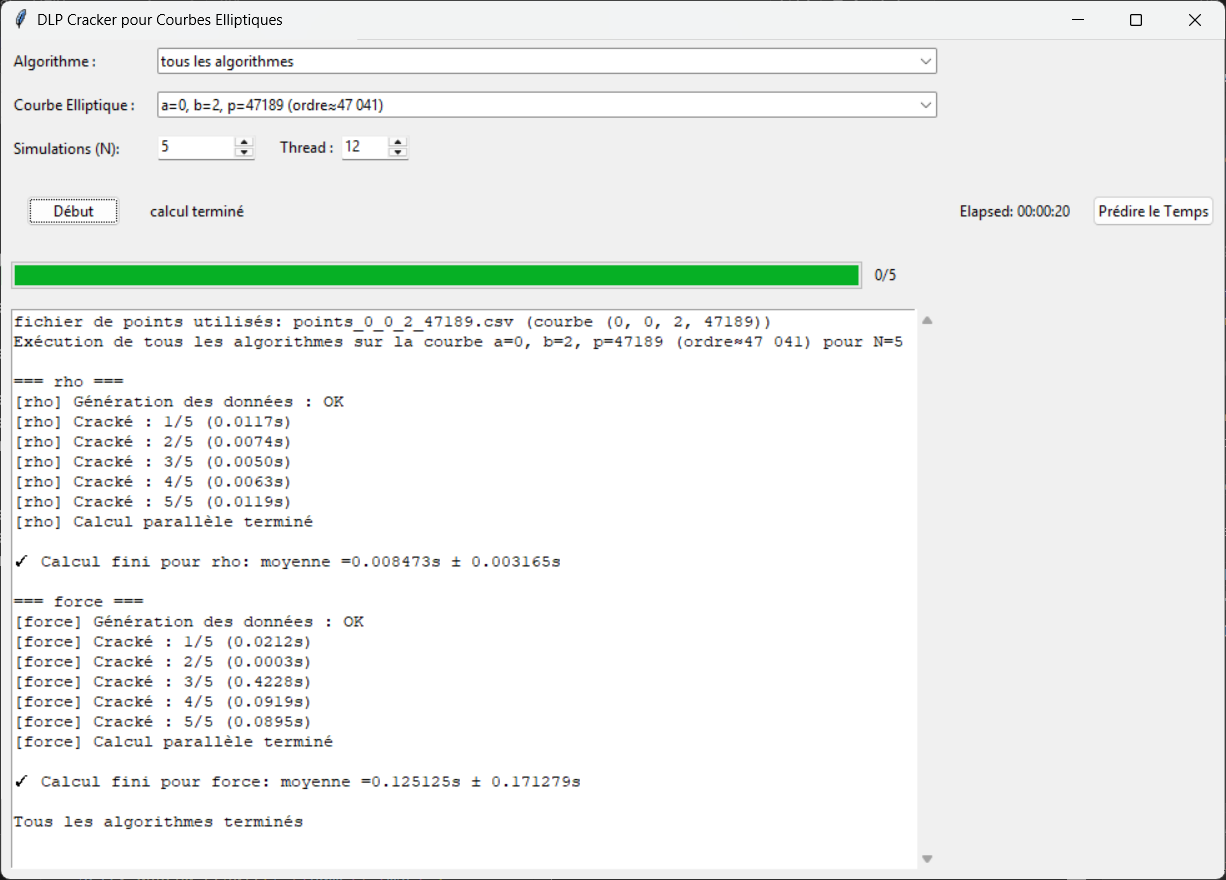
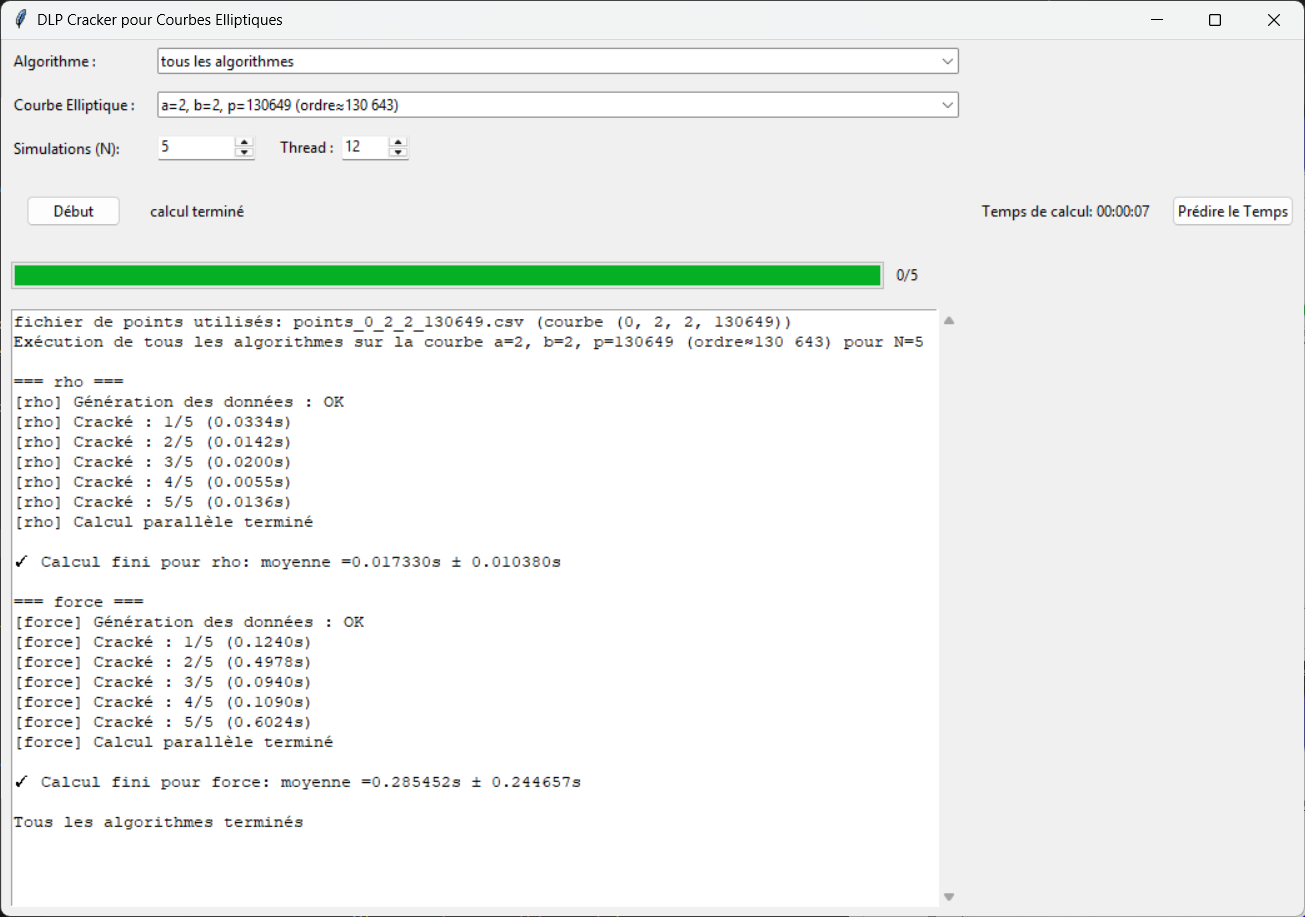
fin ?

diff --git a/latex/diapo/template.tex b/latex/diapo/template.tex
@@ -249,7 +249,10 @@
 	Les équations des courbes elliptiques définies sur $\mathbb{R}$ (ou $\mathbb{Q}$) peuvent s'écrire sous la forme suivante
 	$$\boxed{(\frac{Y}{Z})^2 = (\frac{X}{Z})^3 + a(\frac{X}{Z}) + b}$$ 
 	où $a,b \in \mathbb{R}$ (ou $\mathbb{Q}$) telles que $(4a^3 + 27b^2) \neq 0$ pour que la courbe soit non singulière.\\
-	(pour qu'on puisse définir une tangeante à chaque endroit de la courbe)
+	(pour qu'on puisse définir une tangeante à chaque endroit de la courbe)\\
+	\bigskip
+	Pour simplifier les notations, dans le plan $\mathbb{K}^2$, on note $x = \frac{X}{Z}$ et $y = \frac{Y}{Z}$, l'équation de la courbe elliptique devient alors :
+	$$y^2 = x^3 + ax + b$$
 
 \end{frame}
 
@@ -638,15 +641,15 @@
  	\State $y \gets P$,\quad $d_y \gets 0$\Comment{kangourou sauvage}
 	\For{$i = 0$ \textbf{à} $4N-1$}
 		\If{$y = x$} \Comment{les kangourous se rencontrent}
-			\State \Return $(b + d_x - d_y) \bmod n$
+			\State \Return $(b + d_x - d_y) \bmod n$ \Comment{on remonte le chemin parcouru}
 		\EndIf
-		\State $d_y \gets d_y + f(y)$
-		\State $y \gets y + f(y)\cdot G$
+		\State $d_y \gets d_y + f(y)$ \Comment{on garde une trace de la distance parcourue}
+		\State $y \gets y + f(y)\cdot G$ \Comment{on continue le parcours}
 		\If{$d_y > b - a + d_x$}
 			\State \Return \texttt{échec}
 		\EndIf
 	\EndFor
- 
+
 	\end{algorithmic}
 \end{frame}
 

diff --git a/crack/gui_cracker.py b/crack/gui_cracker.py
@@ -336,7 +336,7 @@ class CrackerGUI(tk.Tk):
         elapsed = time.perf_counter() - getattr(self, '_start_time', time.perf_counter())
         hrs, rem = divmod(int(elapsed), 3600)
         mins, secs = divmod(rem, 60)
-        self.timer_label.config(text=f'Elapsed: {hrs:02d}:{mins:02d}:{secs:02d}')
+        self.timer_label.config(text=f'Temps de calcul: {hrs:02d}:{mins:02d}:{secs:02d}')
         self.after(200, self._update_timer)
 
     def _append_result(self, text):